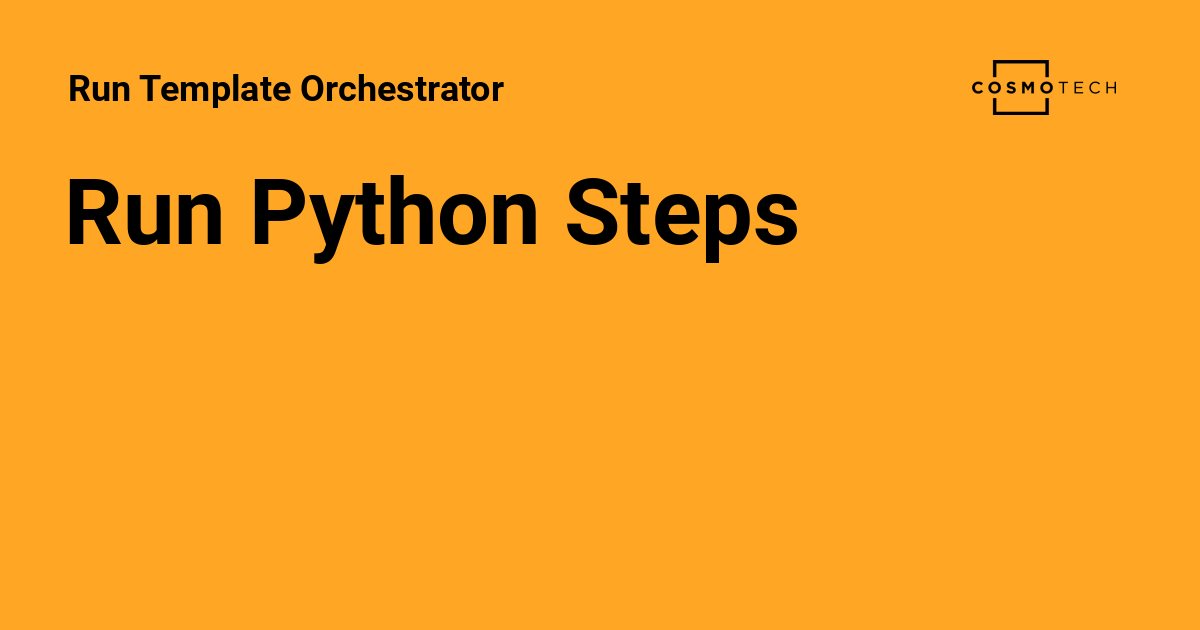
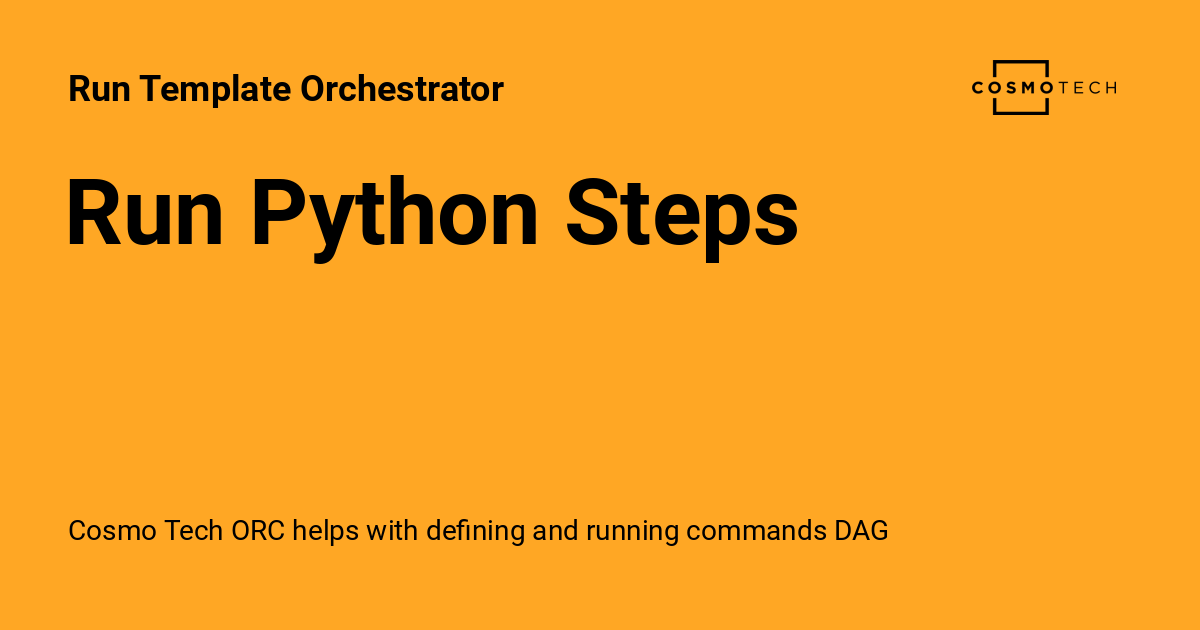
Deployed a48ce0d to AFOS-WIP with MkDocs 1.5.2 and mike 1.1.2

Changed region(s): [[0.0617, 0.8143, 0.74, 0.8746]]

diff --git a/AFOS-WIP/tutorial/brewery_legacy/index.html b/AFOS-WIP/tutorial/brewery_legacy/index.html
@@ -6,6 +6,8 @@
       <meta charset="utf-8">
       <meta name="viewport" content="width=device-width,initial-scale=1">
       
+        <meta name="description" content="Cosmo Tech ORC helps with defining and running commands DAG">
+      
       
       
       
@@ -57,7 +59,7 @@
       
         <meta  property="og:title"  content="Integration with a CosmoTech Simulator - Run Template Orchestrator" >
       
-        <meta  property="og:description"  content="None" >
+        <meta  property="og:description"  content="Cosmo Tech ORC helps with defining and running commands DAG" >
       
         <meta  property="og:image"  content="./assets/images/social/tutorial/brewery_legacy.png" >
       
@@ -73,7 +75,7 @@
       
         <meta  name="twitter:title"  content="Integration with a CosmoTech Simulator - Run Template Orchestrator" >
       
-        <meta  name="twitter:description"  content="None" >
+        <meta  name="twitter:description"  content="Cosmo Tech ORC helps with defining and running commands DAG" >
       
         <meta  name="twitter:image"  content="./assets/images/social/tutorial/brewery_legacy.png" >
       

diff --git a/AFOS-WIP/commands/parameters_generator/index.html b/AFOS-WIP/commands/parameters_generator/index.html
@@ -6,6 +6,8 @@
       <meta charset="utf-8">
       <meta name="viewport" content="width=device-width,initial-scale=1">
       
+        <meta name="description" content="Cosmo Tech ORC helps with defining and running commands DAG">
+      
       
       
       
@@ -59,7 +61,7 @@
       
         <meta  property="og:title"  content="Initialize Parameters folder - Run Template Orchestrator" >
       
-        <meta  property="og:description"  content="None" >
+        <meta  property="og:description"  content="Cosmo Tech ORC helps with defining and running commands DAG" >
       
         <meta  property="og:image"  content="./assets/images/social/commands/parameters_generator.png" >
       
@@ -75,7 +77,7 @@
       
         <meta  name="twitter:title"  content="Initialize Parameters folder - Run Template Orchestrator" >
       
-        <meta  name="twitter:description"  content="None" >
+        <meta  name="twitter:description"  content="Cosmo Tech ORC helps with defining and running commands DAG" >
       
         <meta  name="twitter:image"  content="./assets/images/social/commands/parameters_generator.png" >
       

diff --git a/AFOS-WIP/commands/scenario_data_downloader/index.html b/AFOS-WIP/commands/scenario_data_downloader/index.html
@@ -6,6 +6,8 @@
       <meta charset="utf-8">
       <meta name="viewport" content="width=device-width,initial-scale=1">
       
+        <meta name="description" content="Cosmo Tech ORC helps with defining and running commands DAG">
+      
       
       
       
@@ -61,7 +63,7 @@
       
         <meta  property="og:title"  content="Scenario data download - Run Template Orchestrator" >
       
-        <meta  property="og:description"  content="None" >
+        <meta  property="og:description"  content="Cosmo Tech ORC helps with defining and running commands DAG" >
       
         <meta  property="og:image"  content="./assets/images/social/commands/scenario_data_downloader.png" >
       
@@ -77,7 +79,7 @@
       
         <meta  name="twitter:title"  content="Scenario data download - Run Template Orchestrator" >
       
-        <meta  name="twitter:description"  content="None" >
+        <meta  name="twitter:description"  content="Cosmo Tech ORC helps with defining and running commands DAG" >
       
         <meta  name="twitter:image"  content="./assets/images/social/commands/scenario_data_downloader.png" >
       

diff --git a/AFOS-WIP/commands/download_cloud_steps/index.html b/AFOS-WIP/commands/download_cloud_steps/index.html
@@ -6,6 +6,8 @@
       <meta charset="utf-8">
       <meta name="viewport" content="width=device-width,initial-scale=1">
       
+        <meta name="description" content="Cosmo Tech ORC helps with defining and running commands DAG">
+      
       
       
       
@@ -61,7 +63,7 @@
       
         <meta  property="og:title"  content="Download cloud Steps - Run Template Orchestrator" >
       
-        <meta  property="og:description"  content="None" >
+        <meta  property="og:description"  content="Cosmo Tech ORC helps with defining and running commands DAG" >
       
         <meta  property="og:image"  content="./assets/images/social/commands/download_cloud_steps.png" >
       
@@ -77,7 +79,7 @@
       
         <meta  name="twitter:title"  content="Download cloud Steps - Run Template Orchestrator" >
       
-        <meta  name="twitter:description"  content="None" >
+        <meta  name="twitter:description"  content="Cosmo Tech ORC helps with defining and running commands DAG" >
       
         <meta  name="twitter:image"  content="./assets/images/social/commands/download_cloud_steps.png" >
       

diff --git a/AFOS-WIP/commands/legacy_json_generator/index.html b/AFOS-WIP/commands/legacy_json_generator/index.html
@@ -6,6 +6,8 @@
       <meta charset="utf-8">
       <meta name="viewport" content="width=device-width,initial-scale=1">
       
+        <meta name="description" content="Cosmo Tech ORC helps with defining and running commands DAG">
+      
       
       
       
@@ -61,7 +63,7 @@
       
         <meta  property="og:title"  content="Legacy Generator - Run Template Orchestrator" >
       
-        <meta  property="og:description"  content="None" >
+        <meta  property="og:description"  content="Cosmo Tech ORC helps with defining and running commands DAG" >
       
         <meta  property="og:image"  content="./assets/images/social/commands/legacy_json_generator.png" >
       
@@ -77,7 +79,7 @@
       
         <meta  name="twitter:title"  content="Legacy Generator - Run Template Orchestrator" >
       
-        <meta  name="twitter:description"  content="None" >
+        <meta  name="twitter:description"  content="Cosmo Tech ORC helps with defining and running commands DAG" >
       
         <meta  name="twitter:image"  content="./assets/images/social/commands/legacy_json_generator.png" >
       

diff --git a/AFOS-WIP/commands/simulation_to_adx/index.html b/AFOS-WIP/commands/simulation_to_adx/index.html
@@ -6,6 +6,8 @@
       <meta charset="utf-8">
       <meta name="viewport" content="width=device-width,initial-scale=1">
       
+        <meta name="description" content="Cosmo Tech ORC helps with defining and running commands DAG">
+      
       
       
       
@@ -61,7 +63,7 @@
       
         <meta  property="og:title"  content="Simulation to ADX - Run Template Orchestrator" >
       
-        <meta  property="og:description"  content="None" >
+        <meta  property="og:description"  content="Cosmo Tech ORC helps with defining and running commands DAG" >
       
         <meta  property="og:image"  content="./assets/images/social/commands/simulation_to_adx.png" >
       
@@ -77,7 +79,7 @@
       
         <meta  name="twitter:title"  content="Simulation to ADX - Run Template Orchestrator" >
       
-        <meta  name="twitter:description"  content="None" >
+        <meta  name="twitter:description"  content="Cosmo Tech ORC helps with defining and running commands DAG" >
       
         <meta  name="twitter:image"  content="./assets/images/social/commands/simulation_to_adx.png" >
       

diff --git a/AFOS-WIP/tutorial/second/index.html b/AFOS-WIP/tutorial/second/index.html
@@ -6,6 +6,8 @@
       <meta charset="utf-8">
       <meta name="viewport" content="width=device-width,initial-scale=1">
       
+        <meta name="description" content="Cosmo Tech ORC helps with defining and running commands DAG">
+      
       
       
       
@@ -61,7 +63,7 @@
       
         <meta  property="og:title"  content="Concerning Configuration - Run Template Orchestrator" >
       
-        <meta  property="og:description"  content="None" >
+        <meta  property="og:description"  content="Cosmo Tech ORC helps with defining and running commands DAG" >
       
         <meta  property="og:image"  content="./assets/images/social/tutorial/second.png" >
       
@@ -77,7 +79,7 @@
       
         <meta  name="twitter:title"  content="Concerning Configuration - Run Template Orchestrator" >
       
-        <meta  name="twitter:description"  content="None" >
+        <meta  name="twitter:description"  content="Cosmo Tech ORC helps with defining and running commands DAG" >
       
         <meta  name="twitter:image"  content="./assets/images/social/tutorial/second.png" >
       

diff --git a/AFOS-WIP/tutorial/first/index.html b/AFOS-WIP/tutorial/first/index.html
@@ -6,6 +6,8 @@
       <meta charset="utf-8">
       <meta name="viewport" content="width=device-width,initial-scale=1">
       
+        <meta name="description" content="Cosmo Tech ORC helps with defining and running commands DAG">
+      
       
       
       
@@ -61,7 +63,7 @@
       
         <meta  property="og:title"  content="My First Orchestrator - Run Template Orchestrator" >
       
-        <meta  property="og:description"  content="None" >
+        <meta  property="og:description"  content="Cosmo Tech ORC helps with defining and running commands DAG" >
       
         <meta  property="og:image"  content="./assets/images/social/tutorial/first.png" >
       
@@ -77,7 +79,7 @@
       
         <meta  name="twitter:title"  content="My First Orchestrator - Run Template Orchestrator" >
       
-        <meta  name="twitter:description"  content="None" >
+        <meta  name="twitter:description"  content="Cosmo Tech ORC helps with defining and running commands DAG" >
       
         <meta  name="twitter:image"  content="./assets/images/social/tutorial/first.png" >
       

diff --git a/AFOS-WIP/commands/orchestrator/index.html b/AFOS-WIP/commands/orchestrator/index.html
@@ -6,6 +6,8 @@
       <meta charset="utf-8">
       <meta name="viewport" content="width=device-width,initial-scale=1">
       
+        <meta name="description" content="Cosmo Tech ORC helps with defining and running commands DAG">
+      
       
       
       
@@ -61,7 +63,7 @@
       
         <meta  property="og:title"  content="Orchestrator - Run Template Orchestrator" >
       
-        <meta  property="og:description"  content="None" >
+        <meta  property="og:description"  content="Cosmo Tech ORC helps with defining and running commands DAG" >
       
         <meta  property="og:image"  content="./assets/images/social/commands/orchestrator.png" >
       
@@ -77,7 +79,7 @@
       
         <meta  name="twitter:title"  content="Orchestrator - Run Template Orchestrator" >
       
-        <meta  name="twitter:description"  content="None" >
+        <meta  name="twitter:description"  content="Cosmo Tech ORC helps with defining and running commands DAG" >
       
         <meta  name="twitter:image"  content="./assets/images/social/commands/orchestrator.png" >
       

diff --git a/AFOS-WIP/commands/run_step/index.html b/AFOS-WIP/commands/run_step/index.html
@@ -6,6 +6,8 @@
       <meta charset="utf-8">
       <meta name="viewport" content="width=device-width,initial-scale=1">
       
+        <meta name="description" content="Cosmo Tech ORC helps with defining and running commands DAG">
+      
       
       
       
@@ -61,7 +63,7 @@
       
         <meta  property="og:title"  content="Run Python Steps - Run Template Orchestrator" >
       
-        <meta  property="og:description"  content="None" >
+        <meta  property="og:description"  content="Cosmo Tech ORC helps with defining and running commands DAG" >
       
         <meta  property="og:image"  content="./assets/images/social/commands/run_step.png" >
       
@@ -77,7 +79,7 @@
       
         <meta  name="twitter:title"  content="Run Python Steps - Run Template Orchestrator" >
       
-        <meta  name="twitter:description"  content="None" >
+        <meta  name="twitter:description"  content="Cosmo Tech ORC helps with defining and running commands DAG" >
       
         <meta  name="twitter:image"  content="./assets/images/social/commands/run_step.png" >
       

diff --git a/AFOS-WIP/index.html b/AFOS-WIP/index.html
@@ -6,6 +6,8 @@
       <meta charset="utf-8">
       <meta name="viewport" content="width=device-width,initial-scale=1">
       
+        <meta name="description" content="Cosmo Tech ORC helps with defining and running commands DAG">
+      
       
       
       
@@ -59,7 +61,7 @@
       
         <meta  property="og:title"  content="Cosmo Tech Run Orchestrator - Run Template Orchestrator" >
       
-        <meta  property="og:description"  content="None" >
+        <meta  property="og:description"  content="Cosmo Tech ORC helps with defining and running commands DAG" >
       
         <meta  property="og:image"  content="./assets/images/social/index.png" >
       
@@ -75,7 +77,7 @@
       
         <meta  name="twitter:title"  content="Cosmo Tech Run Orchestrator - Run Template Orchestrator" >
       
-        <meta  name="twitter:description"  content="None" >
+        <meta  name="twitter:description"  content="Cosmo Tech ORC helps with defining and running commands DAG" >
       
         <meta  name="twitter:image"  content="./assets/images/social/index.png" >
       

diff --git a/AFOS-WIP/tutorial/index.html b/AFOS-WIP/tutorial/index.html
@@ -6,6 +6,8 @@
       <meta charset="utf-8">
       <meta name="viewport" content="width=device-width,initial-scale=1">
       
+        <meta name="description" content="Cosmo Tech ORC helps with defining and running commands DAG">
+      
       
       
       
@@ -61,7 +63,7 @@
       
         <meta  property="og:title"  content="List of tutorials - Run Template Orchestrator" >
       
-        <meta  property="og:description"  content="None" >
+        <meta  property="og:description"  content="Cosmo Tech ORC helps with defining and running commands DAG" >
       
         <meta  property="og:image"  content="./assets/images/social/tutorial/index.png" >
       
@@ -77,7 +79,7 @@
       
         <meta  name="twitter:title"  content="List of tutorials - Run Template Orchestrator" >
       
-        <meta  name="twitter:description"  content="None" >
+        <meta  name="twitter:description"  content="Cosmo Tech ORC helps with defining and running commands DAG" >
       
         <meta  name="twitter:image"  content="./assets/images/social/tutorial/index.png" >
       
